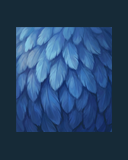
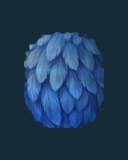
Pods masters pass 66: the verdicts recorded, the Colour, Fluff and Eyes plates fixed, the three repaint jobs written

diff --git a/art/station-masters/pods/tools/plates_fix66.py b/art/station-masters/pods/tools/plates_fix66.py
@@ -1,0 +1,58 @@
+"""Pass 66: three fixes to existing S09 plates, from the pass 65 paintings (no API call):
+ 1 trait-S09-colour-cobalt-128x160: the hard swatch masked to a patch of the Belatz's breast or flank: a rounded body contour 80x96 centred at (64, 80), a soft 3-4 px fluff edge against the ground, cobalt only (hue held to 0.58-0.63, no cream, no green),
+   lit from the top left, the lower part darker: the lower 30 percent about 15 levels down, to show form.
+ 2 trait-S09-fluff-between-128x160: the straight 12 px fade at the painting's top edge replaced by an elliptical fade along the back contour (a 40 px radius dome), so no straight edge remains.
+ 3 trait-S09-eyes-small-128x160: the content scaled to 60 percent (about 58x55), centred at (64, 80), from the painting (not by scaling the slice): the iris about 22 px.
+python3 -I tools/plates_fix66.py"""
+import os, json, re, hashlib, colorsys
+import numpy as np
+from PIL import Image, ImageFilter
+ROOT = os.path.dirname(os.path.dirname(os.path.abspath(__file__))); os.chdir(ROOT)
+GROUND = np.array([22.0, 42.0, 55.0]); G8 = tuple(int(v) for v in GROUND); man = json.load(open("slices/manifest.json")); report = {}
+smooth = lambda t: (lambda u: u * u * (3 - 2 * u))(np.clip(t, 0, 1))
+def load(k):
+    a = np.asarray(Image.open(f"source/raw/plate-S09-{k}.jpg").convert("RGB")).astype(float); b = np.concatenate([a[:6].reshape(-1, 3), a[-6:].reshape(-1, 3), a[:, :6].reshape(-1, 3), a[:, -6:].reshape(-1, 3)])
+    alpha = np.clip((np.abs(a - np.median(b, axis=0)).max(2) - 10) / 24.0, 0, 1); return a, alpha
+def fit(a, alpha, box_w, box_h, scale_extra=1.0):
+    ys, xs = np.where(alpha > 0.5); x0, x1, y0, y1 = xs.min(), xs.max() + 1, ys.min(), ys.max() + 1; s = min(box_w / (x1 - x0), box_h / (y1 - y0)) * scale_extra; assert s <= 1
+    obj = Image.fromarray(np.clip(a[y0:y1, x0:x1], 0, 255).astype(np.uint8)); al = Image.fromarray((alpha[y0:y1, x0:x1] * 255).astype(np.uint8)); nw, nh = max(1, round(obj.width * s)), max(1, round(obj.height * s))
+    pm = np.asarray(obj).astype(float) * (np.asarray(al).astype(float)[..., None] / 255); pm = Image.fromarray(np.clip(pm, 0, 255).astype(np.uint8)).resize((nw, nh), Image.LANCZOS); A = np.asarray(al.resize((nw, nh), Image.LANCZOS)).astype(float)[..., None] / 255
+    P = np.asarray(pm).astype(float); return np.where(A > 1e-3, P / np.maximum(A, 1e-3), GROUND), A, s, (x0, y0, x1, y1)
+def save(name, cell, made):
+    Image.fromarray(np.clip(np.rint(cell), 0, 255).astype(np.uint8)).save(f"slices/{name}.png", optimize=True)
+    man[name]["made"] = made; man[name]["sha256"] = hashlib.sha256(open(f"slices/{name}.png", "rb").read()).hexdigest()
+def offbox(name):
+    f = np.asarray(Image.open(f"slices/{name}.png").convert("RGB")).astype(int); mk = np.abs(f - GROUND.astype(int)).max(2) > 6; yy, xx = np.where(mk); return [int(xx.min()), int(yy.min()), int(xx.max() + 1), int(yy.max() + 1)]
+# ---- 1 Colour
+a, alpha = load("colour"); ys, xs = np.where(alpha > 0.5); cx_, cy_ = (xs.min() + xs.max()) // 2, (ys.min() + ys.max()) // 2; s = 0.151; cw, ch = round(80 / s), round(96 / s)
+tex = Image.fromarray(np.clip(a[cy_ - ch // 2:cy_ - ch // 2 + ch, cx_ - cw // 2:cx_ - cw // 2 + cw], 0, 255).astype(np.uint8)).resize((80, 96), Image.LANCZOS); t = np.asarray(tex).astype(float)
+hsv = np.array([colorsys.rgb_to_hsv(*(p / 255)) for p in t.reshape(-1, 3)]).reshape(96, 80, 3); hsv[..., 0] = np.clip(hsv[..., 0], 0.58, 0.63)           # cobalt only: no cream, no green
+t = np.array([colorsys.hsv_to_rgb(*p) for p in hsv.reshape(-1, 3)]).reshape(96, 80, 3) * 255
+yy, xx = np.mgrid[0:96, 0:80].astype(float); xn, yn = (xx - 39.5) / 40.0, (yy - 47.5) / 48.0; n_ = 2.6; q = (np.abs(xn) ** n_ + np.abs(yn) ** n_) ** (1 / n_)       # a rounded body contour (a superellipse), 80 x 96
+rng = np.random.RandomState(66); noise = np.asarray(Image.fromarray((rng.rand(96, 80) * 255).astype(np.uint8)).filter(ImageFilter.GaussianBlur(1.6))).astype(float) / 255; noise = (noise - noise.mean()) / (noise.std() + 1e-6)
+dist = (1 - q) * 40.0 + noise * 1.1                                                                                                             # px inside the contour, a fluff of about 1 px on it
+edge = smooth((dist + 1.75) / 3.5)                                                                                                             # a soft 3.5 px edge against the ground
+prof = t.mean(axis=(1, 2)); t = t * (prof.mean() / prof)[:, None, None]                                                                         # the painting's own light-to-dark trend down the swatch is flattened first, so the form comes from the two lights below only
+lit = 1.06 - 0.12 * ((xx / 80.0) + (yy / 96.0)) / 2 * 2 * 0.5 * 2                                                                               # lit from the top left
+t = t * (lit[..., None] / lit.mean()); t = t - 15.0 * smooth(((yy / 96.0) - 0.65) / 0.2)[..., None]                                             # the lower 30 percent darker by about 15 levels
+cell = np.tile(GROUND, (160, 128, 1)); cell[32:128, 24:104] = np.clip(t, 0, 255) * edge[..., None] + GROUND * (1 - edge[..., None])
+save("trait-S09-colour-cobalt-128x160", cell, "the Colour plate of the Belatz (cobalt), pass 66: the pass 65 painting's texture masked to a rounded body patch 80x96 centred at (64, 80) with a soft 3.5 px fluff edge, hue held to cobalt (0.58-0.63), lit from the top left, the lower part about 15 levels darker, on the cell tone ground, no frame")
+f = np.asarray(Image.open("slices/trait-S09-colour-cobalt-128x160.png").convert("RGB")).astype(float); body = f[32 + 10:128 - 10, 24 + 10:104 - 10].reshape(-1, 3); H_ = np.array([colorsys.rgb_to_hsv(*(p / 255))[0] for p in body[::7]])
+top = f[32 + 8:32 + 66, 44:84].reshape(-1, 3).mean(); low = f[32 + 72:32 + 88, 44:84].reshape(-1, 3).mean()
+report["colour"] = {"box": offbox("trait-S09-colour-cobalt-128x160"), "hue_range": [round(float(H_.min()), 3), round(float(H_.max()), 3)], "mean_level_upper_70pct": round(float(top), 1), "mean_level_lower_30pct": round(float(low), 1)}
+# ---- 2 Fluff
+a, alpha = load("fluff"); col, A, s, bb = fit(a, alpha, 96, 120); nh, nw = A.shape[:2]; hard = A[..., 0] > 0.5; run = np.where(hard[0])[0]; cx = float(run.mean()); r = 40.0; rx = max(r, (run.max() - run.min()) / 2 + 14)
+yy, xx = np.mgrid[0:nh, 0:nw].astype(float); d = np.hypot((xx - cx) / rx, (yy - r) / r) * r; lat_ = np.clip(1 - np.maximum(np.maximum(run.min() - xx, xx - run.max()), 0) / 12.0, 0, 1); keep = np.where(yy < r, 1 - lat_ * smooth((d - (r - 12)) / 12.0), 1.0)       # an elliptical dome fade over the back's top end: 0 at the cut, 1 from 12 px inside
+out = col * (A * keep[..., None]) + GROUND * (1 - A * keep[..., None]); cell = np.tile(GROUND, (160, 128, 1)); ox, oy = (96 - nw) // 2 + 16, (120 - nh) // 2 + 20; cell[oy:oy + nh, ox:ox + nw] = out
+save("trait-S09-fluff-between-128x160", cell, f"the Fluff plate of the Belatz (between), pass 66: the pass 65 painting reduced (x{s:.3f}, never enlarged) into the centred 96x120; where the body ran off the painting's top edge, an elliptical fade along the back contour (a {int(r)} px radius dome, softened over 12 px) replaces the straight fade")
+fl = np.asarray(Image.open("slices/trait-S09-fluff-between-128x160.png").convert("RGB")).astype(int); mk = np.abs(fl - GROUND.astype(int)).max(2) > 6; top_rows = [int(mk[y].sum()) for y in (oy, oy + 3, oy + 8, oy + 16, oy + 30, oy + 45)]
+report["fluff"] = {"box": offbox("trait-S09-fluff-between-128x160"), "off_ground_px_in_rows_from_the_top_of_the_content": dict(zip((0, 3, 8, 16, 30, 45), top_rows))}
+# ---- 3 Eyes
+a, alpha = load("eyes"); col, A, s, bb = fit(a, alpha, 96, 120, 0.6); nh, nw = A.shape[:2]; out = col * A + GROUND * (1 - A); cell = np.tile(GROUND, (160, 128, 1)); ox, oy = 64 - nw // 2, 80 - nh // 2; cell[oy:oy + nh, ox:ox + nw] = out
+save("trait-S09-eyes-small-128x160", cell, f"the Eyes plate of the Belatz (small), pass 66: the pass 65 painting reduced to 60 percent of the fit (x{s:.3f}, never enlarged), the content {nw}x{nh} centred at (64, 80) on the cell tone ground, so the iris is about 22 px; no frame")
+e = np.asarray(Image.open("slices/trait-S09-eyes-small-128x160.png").convert("RGB")).astype(float); iris = (e[..., 0] > e[..., 2] + 25) & (e[..., 0] > 70) & (e[..., 0] < 200)                    # the brown iris pixels
+ys_, xs_ = np.where(iris); report["eyes"] = {"content": [nw, nh], "box": offbox("trait-S09-eyes-small-128x160"), "content_centre": [ox + nw / 2, oy + nh / 2], "iris_px_bbox": [int(xs_.max() - xs_.min() + 1), int(ys_.max() - ys_.min() + 1)]}
+json.dump(man, open("slices/manifest.json", "w"), indent=1); print(json.dumps(report, indent=1))
+sh = Image.new("RGB", (3 * 136, 168), (10, 20, 26))
+for i, n in enumerate(("colour-cobalt", "fluff-between", "eyes-small")): sh.paste(Image.open(f"slices/trait-S09-{n}-128x160.png"), (4 + i * 136, 4))
+sh.save("proposals/plates-fix66-1x.png"); sh.resize((sh.width * 3, sh.height * 3), Image.NEAREST).save("proposals/plates-fix66-3x.png")

diff --git a/art/station-masters/pods/tools/status.py b/art/station-masters/pods/tools/status.py
@@ -5,7 +5,10 @@ m = json.load(open("slices/manifest.json")); S = {}
 FR = {"120x112", "120x96", "184x104", "184x112", "184x256", "184x304", "376x264"}
 def sign(n, status, sig, note=""): S[n] = {"status": status, "signed_in": sig, "note": note}
 for n in m:
-    if re.match(r"find-(crystal|pearl|shard)-112x112$", n): sign(n, "new", None, "pass 63: the sealed page's find picture, a Pro painting reduced into the centred 84x84 on the cell tone ground, muted, no frame; awaiting verdict")
+    if re.match(r"mibi-halo-S(04|07)-", n): sign(n, "signed", "pass 63 verdict", "the halo figure painted by the image tool (Pro) over the species silhouette, mist and clear")
+    elif re.match(r"find-(crystal|pearl|shard)-112x112$", n): sign(n, "signed", "pass 64 verdict", "the sealed page's find picture: a Pro painting in the centred 84x84 on the cell tone ground, muted, no frame")
+    elif n in ("trait-S09-feathers-between-128x160", "trait-S09-crest-between-128x160"): sign(n, "signed", "pass 65 verdict", "a per-look plate painted by the image tool (Pro), content in the centred 96x120 on the cell tone ground, no frame")
+    elif re.match(r"find-(crystal|pearl|shard)-112x112$", n): sign(n, "new", None, "pass 63: the sealed page's find picture, a Pro painting reduced into the centred 84x84 on the cell tone ground, muted, no frame; awaiting verdict")
     elif n == "mark-line-only-16x8": sign(n, "signed", "pass 60 verdict", "the stepped plinth: a 2 px fog face, a 3 px mist front, a 1 px stone foot")
     elif n in ("mark-line-seed-12x16", "mark-line-seed-pair-20x16", "cell-outline-unread-128x160"): sign(n, "signed", "pass 61 verdict", "the seed values (bone rim, fog rim, frostS body, mist dark half and ghost; the ink ring ruled not needed), and the unread outline typed at its size" )
     elif n in ("trait-S01-crown-leaf-crest-128x160", "trait-S09-beak-between-128x160"): sign(n, "signed", "pass 60 verdict", "the 128x160 crop at 75 percent with the keyed fade on its cut edges")

diff --git a/art/station-masters/pods/README.md b/art/station-masters/pods/README.md
@@ -34,9 +34,9 @@ Each slice is named by the register id it replaces (`room`, `ring`, `page`, `tra
 | `face-belatz-24-away` | 24×24 | (856, 8, 24, 24) | signed (pass 11 (verdict)): Belatz's face, re-cropped tighter | Belatz, the Companion away: the face full on a dimmed ring |
 | `face-loika-24` | 24×24 | (856, 8, 24, 24) | signed (passes 8 and 9 (verdict)): a mark of the Station frame; signed: research, library and habitat room marks, both companion glyphs, the sun, the three lamps, the three faces | the mibi with the Companion: the face painted at 2K from the standard painting, reduced to a 20 px disc inside its 2 px teal ring |
 | `face-loika-24-away` | 24×24 | (856, 8, 24, 24) | signed (passes 8 and 9 (verdict)): a mark of the Station frame; signed: research, library and habitat room marks, both companion glyphs, the sun, the three lamps, the three faces | the Companion away: the mibi out with it, the face full on a dimmed ring |
-| `find-crystal-112x112` | 112×112 |  | new: pass 63: the sealed page's find picture, a Pro painting reduced into the centred 84x84 on the cell tone ground, muted, no frame; awaiting verdict | the find picture of the vybronic crystal: the painting's ground keyed to the cell tone `ground` (22, 42, 55), the object reduced (never enlarged, x0.203) into the centred 84x84 of the 112x112, saturation x0.85, brightness gain 0.712 (mean grey 135.9 before, the large pod's 108.1); no frame |
-| `find-pearl-112x112` | 112×112 |  | new: pass 63: the sealed page's find picture, a Pro painting reduced into the centred 84x84 on the cell tone ground, muted, no frame; awaiting verdict | the find picture of the tide pearl: the painting's ground keyed to the cell tone `ground` (22, 42, 55), the object reduced (never enlarged, x0.153) into the centred 84x84 of the 112x112, saturation x0.85, brightness gain 0.583 (mean grey 156.8 before, the large pod's 108.1); no frame |
-| `find-shard-112x112` | 112×112 |  | new: pass 63: the sealed page's find picture, a Pro painting reduced into the centred 84x84 on the cell tone ground, muted, no frame; awaiting verdict | the find picture of the storm glass shard: the painting's ground keyed to the cell tone `ground` (22, 42, 55), the object reduced (never enlarged, x0.123) into the centred 84x84 of the 112x112, saturation x0.85, brightness gain 1.000 (mean grey 80.8 before, the large pod's 108.1); no frame |
+| `find-crystal-112x112` | 112×112 |  | signed (pass 64 verdict): the sealed page's find picture: a Pro painting in the centred 84x84 on the cell tone ground, muted, no frame | the find picture of the vybronic crystal: the painting's ground keyed to the cell tone `ground` (22, 42, 55), the object reduced (never enlarged, x0.203) into the centred 84x84 of the 112x112, saturation x0.85, brightness gain 0.712 (mean grey 135.9 before, the large pod's 108.1); no frame |
+| `find-pearl-112x112` | 112×112 |  | signed (pass 64 verdict): the sealed page's find picture: a Pro painting in the centred 84x84 on the cell tone ground, muted, no frame | the find picture of the tide pearl: the painting's ground keyed to the cell tone `ground` (22, 42, 55), the object reduced (never enlarged, x0.153) into the centred 84x84 of the 112x112, saturation x0.85, brightness gain 0.583 (mean grey 156.8 before, the large pod's 108.1); no frame |
+| `find-shard-112x112` | 112×112 |  | signed (pass 64 verdict): the sealed page's find picture: a Pro painting in the centred 84x84 on the cell tone ground, muted, no frame | the find picture of the storm glass shard: the painting's ground keyed to the cell tone `ground` (22, 42, 55), the object reduced (never enlarged, x0.123) into the centred 84x84 of the 112x112, saturation x0.85, brightness gain 1.000 (mean grey 80.8 before, the large pod's 108.1); no frame |
 | `glint-star-12x12` | 12×12 | (·, ·, 12, 12) | signed (well rings verdict) | the concept's soft four-point spark: colour-to-alpha, cut square, resampled to 12x12 (place at the ring's upper right, about cx + 30, cy - 30) |
 | `mark-asleep-24x16` | 24×16 | (·, ·, 24, 16) | signed (pass 38 verdict) | the asleep mark: a slim crescent (bone, a white lit edge upper left, a 1 px ink keyline) with a short dotted arc of four dots beneath; no Z's, no face; at P.x + P.w - 32, P.y + 8 |
 | `mark-breed-28x16` | 28×16 | (·, ·, 28, 16) | signed (pass 38 verdict) | the breed-to-change mark: two joined rings, slightly offset, as engraved lines in bone (white on the upper-left arc) with a 1 px ink keyline; no gold; at P.x + 8, P.y + 8 |
@@ -90,14 +90,14 @@ Each slice is named by the register id it replaces (`room`, `ring`, `page`, `tra
 | `mibi-halo-S02-128x160-mist` | 128×160 |  | held: held: its placeholder is a featureless oval; until its painting exists the build shows mibi-halo-S02-128x160-mist in both states | the S02 halo figure, mist: a diffusion of the corrected clear figure, so the two cross-fade cleanly |
 | `mibi-halo-S03-128x160-clear` | 128×160 |  | placeholder (pass 37 (re-fit verdict)): placeholder, re-cut from the standard painting when it lands | the S03 halo figure, clear: a figure of soft cool light painted by the image tool, masked with the species' own silhouette (soft edge), a soft halo about 6 px outside it, graded to the brief |
 | `mibi-halo-S03-128x160-mist` | 128×160 |  | placeholder (pass 41 (the low mists signed)): placeholder, re-cut from the standard painting when it lands | the S03 halo figure, mist: a diffusion of the corrected clear figure, so the two cross-fade cleanly |
-| `mibi-halo-S04-128x160-clear` | 128×160 |  | new: the halo figure, round 2 (the light painted by the image tool over the silhouette); awaiting the verdict | the S04 halo figure, clear: a figure of soft cool light painted by the image tool, masked with the species' own silhouette (soft edge), a soft halo about 6 px outside it, graded to the brief |
-| `mibi-halo-S04-128x160-mist` | 128×160 |  | new: the halo figure, round 2 (the light painted by the image tool over the silhouette); awaiting the verdict | the S04 halo figure, mist: a diffusion of the corrected clear figure, so the two cross-fade cleanly |
+| `mibi-halo-S04-128x160-clear` | 128×160 |  | signed (pass 63 verdict): the halo figure painted by the image tool (Pro) over the species silhouette, mist and clear | the S04 halo figure, clear: a figure of soft cool light painted by the image tool, masked with the species' own silhouette (soft edge), a soft halo about 6 px outside it, graded to the brief |
+| `mibi-halo-S04-128x160-mist` | 128×160 |  | signed (pass 63 verdict): the halo figure painted by the image tool (Pro) over the species silhouette, mist and clear | the S04 halo figure, mist: a diffusion of the corrected clear figure, so the two cross-fade cleanly |
 | `mibi-halo-S05-128x160-clear` | 128×160 |  | placeholder (pass 37 (re-fit verdict)): placeholder, re-cut from the standard painting when it lands | the S05 halo figure, clear: a figure of soft cool light painted by the image tool, masked with the species' own silhouette (soft edge), a soft halo about 6 px outside it, graded to the brief |
 | `mibi-halo-S05-128x160-mist` | 128×160 |  | placeholder (pass 37 (re-fit verdict)): placeholder, re-cut from the standard painting when it lands | the S05 halo figure, mist: a diffusion of the corrected clear figure, so the two cross-fade cleanly |
 | `mibi-halo-S06-128x160-clear` | 128×160 |  | placeholder (pass 37 (re-fit verdict)): placeholder, re-cut from the standard painting when it lands | the S06 halo figure, clear: a figure of soft cool light painted by the image tool, masked with the species' own silhouette (soft edge), a soft halo about 6 px outside it, graded to the brief |
 | `mibi-halo-S06-128x160-mist` | 128×160 |  | placeholder (pass 37 (re-fit verdict)): placeholder, re-cut from the standard painting when it lands | the S06 halo figure, mist: a diffusion of the corrected clear figure, so the two cross-fade cleanly |
-| `mibi-halo-S07-128x160-clear` | 128×160 |  | new: the halo figure, round 2 (the light painted by the image tool over the silhouette); awaiting the verdict | the S07 halo figure, clear: a figure of soft cool light painted by the image tool, masked with the species' own silhouette (soft edge), a soft halo about 6 px outside it, graded to the brief |
-| `mibi-halo-S07-128x160-mist` | 128×160 |  | new: the halo figure, round 2 (the light painted by the image tool over the silhouette); awaiting the verdict | the S07 halo figure, mist: a diffusion of the corrected clear figure, so the two cross-fade cleanly |
+| `mibi-halo-S07-128x160-clear` | 128×160 |  | signed (pass 63 verdict): the halo figure painted by the image tool (Pro) over the species silhouette, mist and clear | the S07 halo figure, clear: a figure of soft cool light painted by the image tool, masked with the species' own silhouette (soft edge), a soft halo about 6 px outside it, graded to the brief |
+| `mibi-halo-S07-128x160-mist` | 128×160 |  | signed (pass 63 verdict): the halo figure painted by the image tool (Pro) over the species silhouette, mist and clear | the S07 halo figure, mist: a diffusion of the corrected clear figure, so the two cross-fade cleanly |
 | `mibi-halo-S08-128x160-clear` | 128×160 |  | placeholder (pass 37 (re-fit verdict)): placeholder, re-cut from the standard painting when it lands | the S08 halo figure, clear: a figure of soft cool light painted by the image tool, masked with the species' own silhouette (soft edge), a soft halo about 6 px outside it, graded to the brief |
 | `mibi-halo-S08-128x160-mist` | 128×160 |  | placeholder (pass 37 (re-fit verdict)): placeholder, re-cut from the standard painting when it lands | the S08 halo figure, mist: a diffusion of the corrected clear figure, so the two cross-fade cleanly |
 | `mibi-halo-S09-128x160-clear` | 128×160 |  | signed (pass 23 verdict): master: cut from the species' standard painting | the S09 halo figure, clear: a figure of soft cool light painted by the image tool, masked with the species' own silhouette (soft edge), a soft halo about 6 px outside it, graded to the brief |
@@ -177,16 +177,16 @@ Each slice is named by the register id it replaces (`room`, `ring`, `page`, `tra
 | `trait-S09-beak-between-128x160` | 128×160 |  | signed (pass 60 verdict): the 128x160 crop at 75 percent with the keyed fade on its cut edges | the Beak of the Belatz (between): a crop of the accepted painting from the rig's region, re-framed to 128x160 from a 96x120 window into the centred 75 percent of the cell (96x120 at (16, 20)) (reduced, never enlarged), paper keyed to deep, key choked 1 px, defringed; FLAG: the part's box is 89x85 px, smaller than the 96x120 cell: shown with its surroundings at 1:1, not enlarged; 128x160 (pass 60): a keyed fade (smoothstep over 12 px, finished inside the box) on the straight cut edges: [{'edge': 'top', 'run_px': 52}, {'edge': 'right', 'run_px': 120}] |
 | `trait-S09-beak-between-144x176` | 144×176 |  | new: pass 59: re-cut by the owner's 75 percent rule: the content inside the centred 75 percent of the cell (96x120 in 128x160), reduced and never enlarged, on the cell tone `ground`; awaiting verdict (the signed crop stays placed until then) | the Beak of the Belatz (between): a crop of the accepted painting from the rig's region, re-framed to 144x176 from a 108x132 window into the centred 75 percent of the cell (108x132 at (18, 22)) (reduced, never enlarged), paper keyed to deep, key choked 1 px, defringed; FLAG: the part's box is 89x85 px, smaller than the 108x132 cell: shown with its surroundings at 1:1, not enlarged |
 | `trait-S09-carriage-straight-128x160` | 128×160 |  | new: pass 65: a per-look plate painted by the image tool (Pro), content in the centred 96x120 on the cell tone ground, no frame; awaiting verdict | the Carriage plate of the Belatz (straight): a Pro painting, its ground keyed to the cell tone `ground` (22, 42, 55), the content reduced (never enlarged, x0.129) into the centred 96x120 at (16, 20), no frame |
-| `trait-S09-colour-cobalt-128x160` | 128×160 |  | new: pass 65: a per-look plate painted by the image tool (Pro), content in the centred 96x120 on the cell tone ground, no frame; awaiting verdict | the Colour plate of the Belatz (cobalt): a Pro painting, its ground keyed to the cell tone `ground` (22, 42, 55), the content reduced (never enlarged, x0.151) into the centred 96x120 at (16, 20), no frame |
-| `trait-S09-crest-between-128x160` | 128×160 |  | new: pass 65: a per-look plate painted by the image tool (Pro), content in the centred 96x120 on the cell tone ground, no frame; awaiting verdict | the Crest plate of the Belatz (between): a Pro painting, its ground keyed to the cell tone `ground` (22, 42, 55), the content reduced (never enlarged, x0.150) into the centred 96x120 at (16, 20), no frame |
+| `trait-S09-colour-cobalt-128x160` | 128×160 |  | new: pass 65: a per-look plate painted by the image tool (Pro), content in the centred 96x120 on the cell tone ground, no frame; awaiting verdict | the Colour plate of the Belatz (cobalt), pass 66: the pass 65 painting's texture masked to a rounded body patch 80x96 centred at (64, 80) with a soft 3.5 px fluff edge, hue held to cobalt (0.58-0.63), lit from the top left, the lower part about 15 levels darker, on the cell tone ground, no frame |
+| `trait-S09-crest-between-128x160` | 128×160 |  | signed (pass 65 verdict): a per-look plate painted by the image tool (Pro), content in the centred 96x120 on the cell tone ground, no frame | the Crest plate of the Belatz (between): a Pro painting, its ground keyed to the cell tone `ground` (22, 42, 55), the content reduced (never enlarged, x0.150) into the centred 96x120 at (16, 20), no frame |
 | `trait-S09-crown-tall-104x160` | 104×160 |  | new: pass 59: re-cut by the owner's 75 percent rule: the content inside the centred 75 percent of the cell (96x120 in 128x160), reduced and never enlarged, on the cell tone `ground`; awaiting verdict (the signed crop stays placed until then) | the Crown of the Belatz (tall): a crop of the accepted painting from the rig's region, re-framed to 104x160 from a 174x268 window into the centred 75 percent of the cell (78x120 at (13, 20)) (reduced, never enlarged), paper keyed to deep, key choked 1 px, defringed; body kept at 35 percent alpha fading over about 22 px, no shadow |
 | `trait-S09-crown-tall-104x64` | 104×64 |  | new: pass 59: re-cut by the owner's 75 percent rule: the content inside the centred 75 percent of the cell (96x120 in 128x160), reduced and never enlarged, on the cell tone `ground`; awaiting verdict (the signed crop stays placed until then) | the Crown of the Belatz (tall): a crop of the accepted painting from the rig's region, re-framed to 104x64 from a 222x137 window into the centred 75 percent of the cell (78x48 at (13, 8)) (reduced, never enlarged), paper keyed to deep, key choked 1 px, defringed; body kept at 35 percent alpha fading over about 22 px, no shadow |
 | `trait-S09-crown-tall-104x96` | 104×96 |  | new: pass 59: re-cut by the owner's 75 percent rule: the content inside the centred 75 percent of the cell (96x120 in 128x160), reduced and never enlarged, on the cell tone `ground`; awaiting verdict (the signed crop stays placed until then) | the Crown of the Belatz (tall): a crop of the accepted painting from the rig's region, re-framed to 104x96 from a 174x161 window into the centred 75 percent of the cell (78x72 at (13, 12)) (reduced, never enlarged), paper keyed to deep, key choked 1 px, defringed; body kept at 35 percent alpha fading over about 22 px, no shadow |
 | `trait-S09-crown-tall-128x160` | 128×160 |  | new: pass 59: re-cut by the owner's 75 percent rule: the content inside the centred 75 percent of the cell (96x120 in 128x160), reduced and never enlarged, on the cell tone `ground`; awaiting verdict (the signed crop stays placed until then) | the Crown of the Belatz (tall): a crop of the accepted painting from the rig's region, re-framed to 128x160 from a 174x218 window into the centred 75 percent of the cell (96x120 at (16, 20)) (reduced, never enlarged), paper keyed to deep, key choked 1 px, defringed; body kept at 35 percent alpha fading over about 22 px, no shadow |
 | `trait-S09-crown-tall-144x176` | 144×176 |  | new: pass 59: re-cut by the owner's 75 percent rule: the content inside the centred 75 percent of the cell (96x120 in 128x160), reduced and never enlarged, on the cell tone `ground`; awaiting verdict (the signed crop stays placed until then) | the Crown of the Belatz (tall): a crop of the accepted painting from the rig's region, re-framed to 144x176 from a 174x213 window into the centred 75 percent of the cell (108x132 at (18, 22)) (reduced, never enlarged), paper keyed to deep, key choked 1 px, defringed; body kept at 35 percent alpha fading over about 22 px, no shadow |
-| `trait-S09-eyes-small-128x160` | 128×160 |  | new: pass 65: a per-look plate painted by the image tool (Pro), content in the centred 96x120 on the cell tone ground, no frame; awaiting verdict | the Eyes plate of the Belatz (small): a Pro painting, its ground keyed to the cell tone `ground` (22, 42, 55), the content reduced (never enlarged, x0.127) into the centred 96x120 at (16, 20), no frame |
-| `trait-S09-feathers-between-128x160` | 128×160 |  | new: pass 65: a per-look plate painted by the image tool (Pro), content in the centred 96x120 on the cell tone ground, no frame; awaiting verdict | the Feathers plate of the Belatz (between): a Pro painting, its ground keyed to the cell tone `ground` (22, 42, 55), the content reduced (never enlarged, x0.124) into the centred 96x120 at (16, 20), no frame |
-| `trait-S09-fluff-between-128x160` | 128×160 |  | new: pass 65: a per-look plate painted by the image tool (Pro), content in the centred 96x120 on the cell tone ground, no frame; awaiting verdict | the Fluff plate of the Belatz (between): a Pro painting, its ground keyed to the cell tone `ground` (22, 42, 55), the content reduced (never enlarged, x0.110) into the centred 96x120 at (16, 20), no frame; the object ran off the painting's top edge: a keyed fade (smoothstep, 12 px) along it |
+| `trait-S09-eyes-small-128x160` | 128×160 |  | new: pass 65: a per-look plate painted by the image tool (Pro), content in the centred 96x120 on the cell tone ground, no frame; awaiting verdict | the Eyes plate of the Belatz (small), pass 66: the pass 65 painting reduced to 60 percent of the fit (x0.076, never enlarged), the content 58x55 centred at (64, 80) on the cell tone ground, so the iris is about 22 px; no frame |
+| `trait-S09-feathers-between-128x160` | 128×160 |  | signed (pass 65 verdict): a per-look plate painted by the image tool (Pro), content in the centred 96x120 on the cell tone ground, no frame | the Feathers plate of the Belatz (between): a Pro painting, its ground keyed to the cell tone `ground` (22, 42, 55), the content reduced (never enlarged, x0.124) into the centred 96x120 at (16, 20), no frame |
+| `trait-S09-fluff-between-128x160` | 128×160 |  | new: pass 65: a per-look plate painted by the image tool (Pro), content in the centred 96x120 on the cell tone ground, no frame; awaiting verdict | the Fluff plate of the Belatz (between), pass 66: the pass 65 painting reduced (x0.110, never enlarged) into the centred 96x120; where the body ran off the painting's top edge, an elliptical fade along the back contour (a 40 px radius dome, softened over 12 px) replaces the straight fade |
 | `trait-S09-head-between-small-and-large-104x160` | 104×160 |  | new: pass 59: re-cut by the owner's 75 percent rule: the content inside the centred 75 percent of the cell (96x120 in 128x160), reduced and never enlarged, on the cell tone `ground`; awaiting verdict (the signed crop stays placed until then) | the Head of the Belatz (between small and large): a crop of the accepted painting from the rig's region, re-framed to 104x160 from a 226x348 window into the centred 75 percent of the cell (78x120 at (13, 20)) (reduced, never enlarged), paper keyed to deep, key choked 1 px, defringed |
 | `trait-S09-head-between-small-and-large-104x64` | 104×64 |  | new: pass 59: re-cut by the owner's 75 percent rule: the content inside the centred 75 percent of the cell (96x120 in 128x160), reduced and never enlarged, on the cell tone `ground`; awaiting verdict (the signed crop stays placed until then) | the Head of the Belatz (between small and large): a crop of the accepted painting from the rig's region, re-framed to 104x64 from a 439x270 window into the centred 75 percent of the cell (78x48 at (13, 8)) (reduced, never enlarged), paper keyed to deep, key choked 1 px, defringed |
 | `trait-S09-head-between-small-and-large-104x96` | 104×96 |  | new: pass 59: re-cut by the owner's 75 percent rule: the content inside the centred 75 percent of the cell (96x120 in 128x160), reduced and never enlarged, on the cell tone `ground`; awaiting verdict (the signed crop stays placed until then) | the Head of the Belatz (between small and large): a crop of the accepted painting from the rig's region, re-framed to 104x96 from a 292x270 window into the centred 75 percent of the cell (78x72 at (13, 12)) (reduced, never enlarged), paper keyed to deep, key choked 1 px, defringed |
@@ -603,6 +603,15 @@ Each slice is named by the register id it replaces (`room`, `ring`, `page`, `tra
 | `trait-picture-frame-376x264-unread` | 376×264 |  | withdrawn (pass 59 verdict): withdrawn with the pane (the withdrawal signed by the art director): the open chapter page (origin/design-pods-open d00f372a) has no per-cell frame and no stand-in card; nothing more is cut for it (the pass 58 sill frames were never signed) | frost texture at 0.9 alpha under the frame (pass 58: bottom rail deepened to a 20 px sill between the side rails (columns 9 to 365): the rails' body colour (60, 77, 92), opaque, flat, no ornament; its top edge is the top rail's inner profile mirrored; the rails keep their full profile to the bottom edge, with the old rail's two dark bottom rows) |
 
 <!-- end of the generated Slices section -->
+
+## Pass 66 - the verdicts on passes 63 to 65, three fixes (the three repaints are waiting) (every claim below was measured on the files)
+
+Signed under the verdicts (recorded): the halos S04 and S07 (mist and clear; pass 63), `find-crystal-112x112`, `find-pearl-112x112`, `find-shard-112x112` (pass 64), and the S09 plates Feathers and Crest (pass 65). Status record: 371 signed, 57 new, 75 withdrawn, 20 placeholder, 2 held.
+- **Colour (cobalt)** (`tools/plates_fix66.py`, from the pass 65 painting, no API call; recorded new): the texture masked to a rounded body patch of 80x96 (a superellipse) centred at (64, 80), the box on the file x 24 to 103, y 32 to 127; a soft 3.5 px edge with about 1 px of fluff on it; the hue held to cobalt (measured 0.566 to 0.623, so no cream and no green); the painting's own light-to-dark trend flattened first, then lit from the top left and the lower part about 15 levels darker: the mean level of the lower 30 percent is 89.6 against 106.1 for the upper 70 percent (16.5 levels).
+- **Fluff** (recorded new): the straight 12 px fade replaced by an elliptical fade along the back contour: a dome of 40 px radius at the body's top end (softened over 12 px, tapering over 12 px beside the run), so no straight edge remains: row 0 of the content has 0 off-ground pixels, then 19 (row 3), 40 (row 8), 50 (row 16), 66 (row 30), 77 (row 45).
+- **Eyes (small)** (recorded new): from the painting at 60 percent of the pass 65 fit (never enlarged): content 58x55 centred at (64, 80.5) (box x 35 to 92, y 53 to 107); the brown iris region (lids included) measures 34x21 px against 56x35 before (x0.61).
+- **The three repaints (Sheen, Tufts, Carriage) have NOT been made:** the three requests were refused by the session's permission classifier and are waiting for a decision. Their jobs are written (`source/work/plates66-jobs.json`: Pro, 1K, 4:5, the S09 painting as reference, at most two requests each) and no call was made.
+- Proof `proposals/plates-fix66-1x.png` and `-3x.png`.
 
 ## Pass 65 - the run, part 3: the eight S09 plates (every claim below was measured on the files)
 
